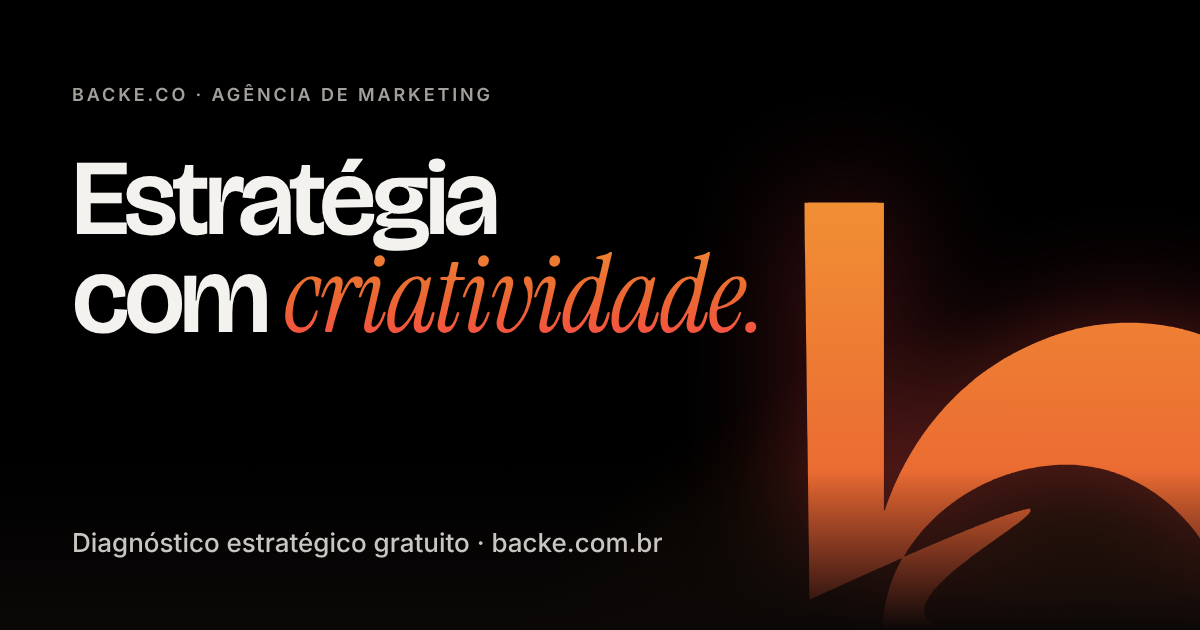
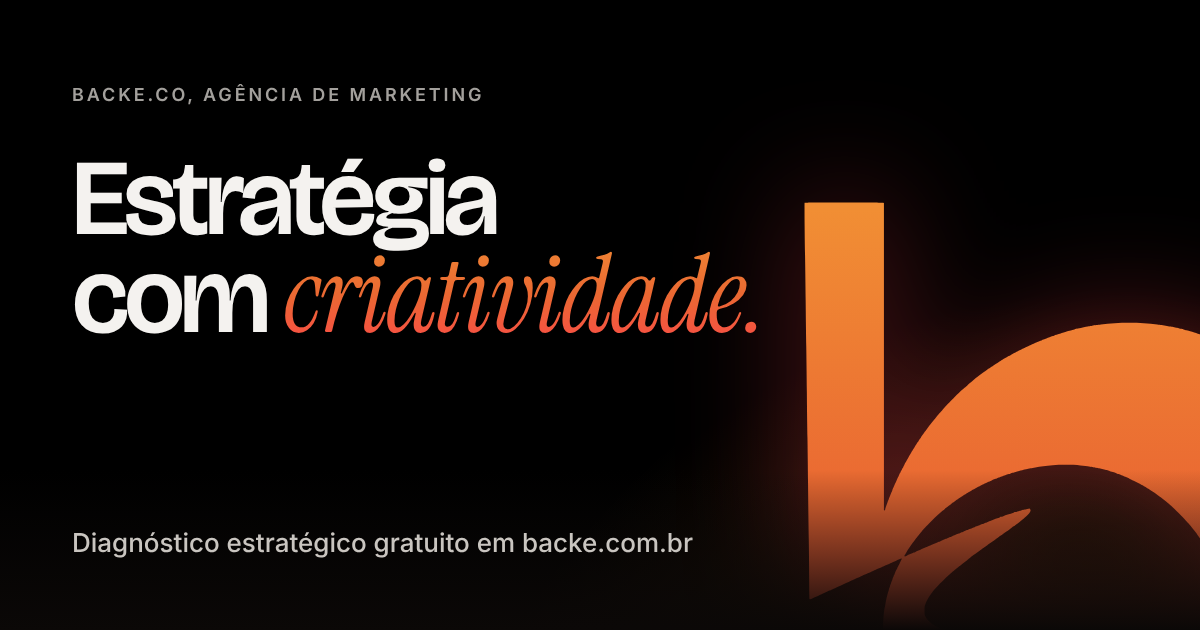
Inclui print do case de Instagram (com ampliação) e remove travessões e separadores do texto
Claude-Session: https://claude.ai/code/session_01GLe685VYL5A7jZ35pJbCFA

Changed region(s): [[0.1542, 0.1206, 0.4008, 0.181], [0.4008, 0.8444, 0.5858, 0.8746]]

diff --git a/src/data/content.ts b/src/data/content.ts
@@ -10,7 +10,7 @@ export const CONTACT = {
   instagram: 'https://www.instagram.com/backe.co/',
   instagramHandle: '@backe.co',
   city: 'Brasília, DF',
-  hours: ['Seg a sex · 9h às 18h', 'Sáb · 9h às 13h'],
+  hours: ['Segunda a sexta, das 9h às 18h', 'Sábado, das 9h às 13h'],
 };
 
 /** Confirmados pela Backe em 12/11/2026. */
@@ -89,7 +89,7 @@ export const FRONTS: Front[] = [
     id: 'demanda',
     name: 'Demanda',
     promise: 'As pessoas certas chegando todos os dias.',
-    intro: 'Mídia paga e presença social trabalhando juntas para gerar oportunidades previsíveis — não só alcance.',
+    intro: 'Mídia paga e presença social trabalhando juntas para gerar oportunidades previsíveis, não só alcance.',
     services: [
       {
         id: 'trafego-pago',
@@ -152,7 +152,7 @@ export const FRONTS: Front[] = [
     id: 'imagem',
     name: 'Imagem',
     promise: 'O que as palavras não conseguem mostrar.',
-    intro: 'Produção audiovisual própria — no chão e no ar — para campanhas, redes sociais e institucionais.',
+    intro: 'Produção audiovisual própria, no chão e no ar, para campanhas, redes sociais e vídeos institucionais.',
     services: [
       {
         id: 'audiovisual',
@@ -180,7 +180,7 @@ export const DIFFERENTIALS = [
   { theme: 'Estratégia antes da execução', them: 'Começa pelo post e pelo anúncio.', us: 'Começa pelo diagnóstico do seu negócio, mercado e oportunidades reais.' },
   { theme: 'Plano sob medida', them: 'Pacote padrão que serve para todo mundo.', us: 'Cada estratégia é construída do zero para a sua empresa.' },
   { theme: 'Criatividade com objetivo', them: 'Peça bonita que não sabe o que precisa gerar.', us: 'Execução criativa que nasce dos dados e trabalha por uma meta.' },
-  { theme: 'Visão de negócio', them: 'Fala de curtidas e alcance.', us: 'Conecta marketing a metas comerciais — e ao seu time de vendas.' },
+  { theme: 'Visão de negócio', them: 'Fala de curtidas e alcance.', us: 'Conecta o marketing às metas comerciais e ao seu time de vendas.' },
   { theme: 'Tudo integrado', them: 'Um fornecedor para cada coisa, ninguém responsável pelo todo.', us: 'Estratégia, mídia, marca e imagem no mesmo time, no mesmo plano.' },
   { theme: 'Responsabilidade', them: 'Relatório que ninguém entende.', us: 'Time sênior, sem terceirizar atendimento, com acompanhamento transparente.' },
 ];
@@ -211,7 +211,7 @@ export const FAQ = [
   },
   {
     q: 'Quem vai cuidar da minha empresa?',
-    a: 'Um time sênior da própria Backe. Não terceirizamos o atendimento — nem o pensamento estratégico.',
+    a: 'Um time sênior da própria Backe. Não terceirizamos o atendimento, e muito menos o pensamento estratégico.',
   },
   {
     q: 'Como acompanho os resultados?',

diff --git a/public/privacidade.html b/public/privacidade.html
@@ -5,7 +5,7 @@
   <meta name="viewport" content="width=device-width,initial-scale=1" />
   <meta name="robots" content="index,follow" />
   <meta name="theme-color" content="#000000" />
-  <title>Política de Privacidade — BACKE.co</title>
+  <title>Política de Privacidade | BACKE.co</title>
   <link rel="canonical" href="https://backe.com.br/privacidade.html" />
   <link rel="icon" href="favicon.svg" type="image/svg+xml" />
   <style>
@@ -28,7 +28,7 @@
     <a class="back" href="./"><img src="favicon.svg" alt="" width="32" height="32" /> Voltar ao site</a>
     <h1>Política de Privacidade</h1>
     <small>Última atualização: 12 de novembro de 2026</small>
-    <p>A BACKE.co utiliza os dados enviados no formulário — nome, telefone, e-mail, empresa e informações comerciais — para responder ao contato, preparar um diagnóstico e manter o relacionamento comercial solicitado.</p>
+    <p>A BACKE.co utiliza os dados enviados no formulário (nome, telefone, e-mail, empresa e informações comerciais) para responder ao contato, preparar um diagnóstico e manter o relacionamento comercial solicitado.</p>
     <h2>Como tratamos os dados</h2>
     <p>Os dados são armazenados em infraestrutura Cloudflare com acesso restrito e poderão ser usados pela API oficial do WhatsApp da Meta quando esse canal for ativado. Não vendemos dados pessoais.</p>
     <h2>Cookies e medição de campanhas</h2>

diff --git a/src/scripts/ui.ts b/src/scripts/ui.ts
@@ -158,3 +158,20 @@ if (mcta && hero) {
   if (footer) formObs.observe(footer);
   if (banner) new MutationObserver(update).observe(banner, { attributes: true, attributeFilter: ['hidden'] });
 }
+
+/* ───── Prints dos cases: ampliar ao clicar ───── */
+const lb = document.querySelector<HTMLDialogElement>('[data-lightbox-dialog]');
+const lbImg = lb?.querySelector<HTMLImageElement>('[data-lightbox-img]');
+if (lb && lbImg) {
+  document.querySelectorAll<HTMLButtonElement>('[data-lightbox]').forEach((b) =>
+    b.addEventListener('click', () => {
+      lbImg.src = b.dataset.lightbox!;
+      lbImg.alt = b.dataset.lightboxAlt || '';
+      lb.showModal();
+      track('case_print_open', { src: b.dataset.lightbox });
+    }),
+  );
+  lb.addEventListener('click', (e) => {
+    if (e.target === lb) lb.close();
+  });
+}

diff --git a/src/scripts/form.ts b/src/scripts/form.ts
@@ -14,9 +14,9 @@ import { track, trackLead } from '../lib/tracking';
 
 const DRAFT_KEY = 'backe_form_draft';
 const STEPS = [
-  { name: 'Sobre você', next: 'Continuar' },
-  { name: 'Sobre o seu negócio', next: 'Continuar' },
-  { name: 'Por onde começar', next: '' },
+  { name: 'sobre você', next: 'Continuar' },
+  { name: 'sobre o seu negócio', next: 'Continuar' },
+  { name: 'por onde começar', next: '' },
 ];
 
 const form = document.querySelector<HTMLFormElement>('[data-form]');
